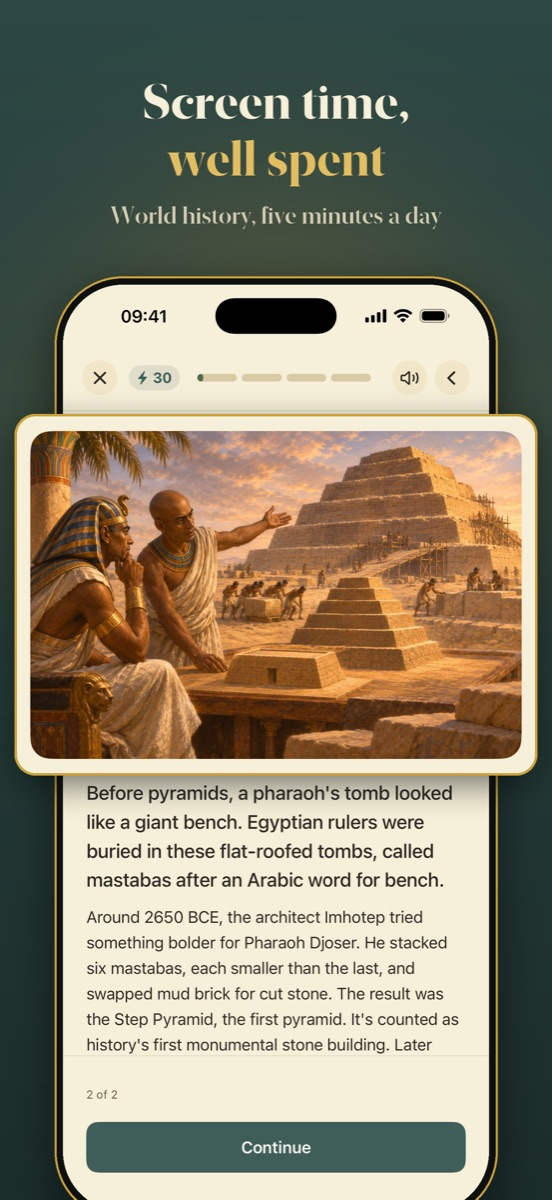
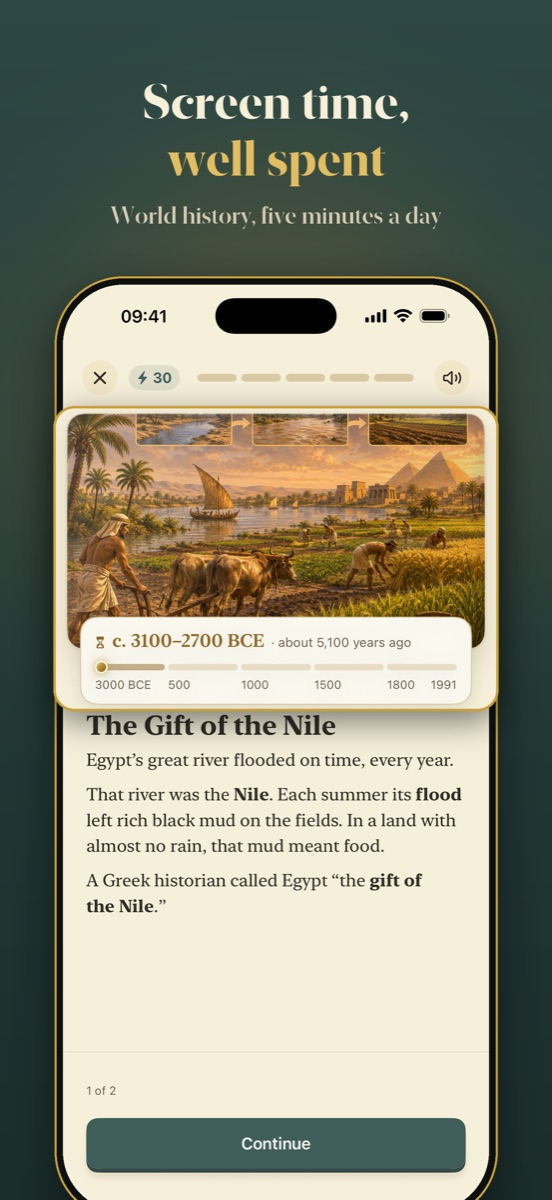
Noble landing page: timeline, lesson page and questions screenshots from the new app; all three fit on small phones

diff --git a/Noble/index.html b/Noble/index.html
@@ -38,18 +38,18 @@
   .badge { display: inline-block; line-height: 0; }
   .badge img { height: 54px; width: auto; }
   .free { margin: 8px 0 0; font-size: 13px; opacity: .75; }
+  /* Three screenshots side by side, each as large as the space allows:
+     a third of the width, or the free height (screenshots are 1320x2868). */
   .shots {
-    flex: 1 1 auto; min-height: 0; display: flex; justify-content: center; align-items: flex-end;
-    gap: 10px; padding-top: 16px; overflow: hidden;
+    flex: 1 1 auto; min-height: 0; display: flex; justify-content: center; align-items: center;
+    gap: 10px; padding-top: 16px; container-type: size;
   }
   .shots img {
-    height: 100%; max-height: 420px; width: auto; min-width: 0; border-radius: 14px;
-    box-shadow: 0 8px 22px rgba(0,0,0,.35); object-fit: contain;
+    width: min(calc((100cqw - 20px) / 3), calc(100cqh * 0.4602), 200px); height: auto;
+    border-radius: 12px; box-shadow: 0 8px 22px rgba(0,0,0,.35);
   }
-  .shots img.side { opacity: .9; }
   footer { flex: 0 0 auto; font-size: 12px; padding-top: 10px; opacity: .7; }
   footer a { color: var(--cream); }
-  @media (max-width: 380px) { .shots img.side:last-child { display: none; } }
 </style>
 </head>
 <body>
@@ -64,9 +64,9 @@
 </div>
 
 <div class="shots" aria-label="App screenshots">
-  <img src="img/01-well-spent.jpg" alt="A painted lesson page in Noble">
-  <img class="side" src="img/02-listen.jpg" alt="The narrator reading a lesson aloud">
-  <img class="side" src="img/03-quizzes.jpg" alt="A quick question about the lesson">
+  <img src="img/01-timeline.jpg" alt="The timeline of lessons in Noble">
+  <img src="img/02-lesson.jpg" alt="A painted lesson page">
+  <img src="img/03-questions.jpg" alt="A quick question about the lesson">
 </div>
 
 <footer>
